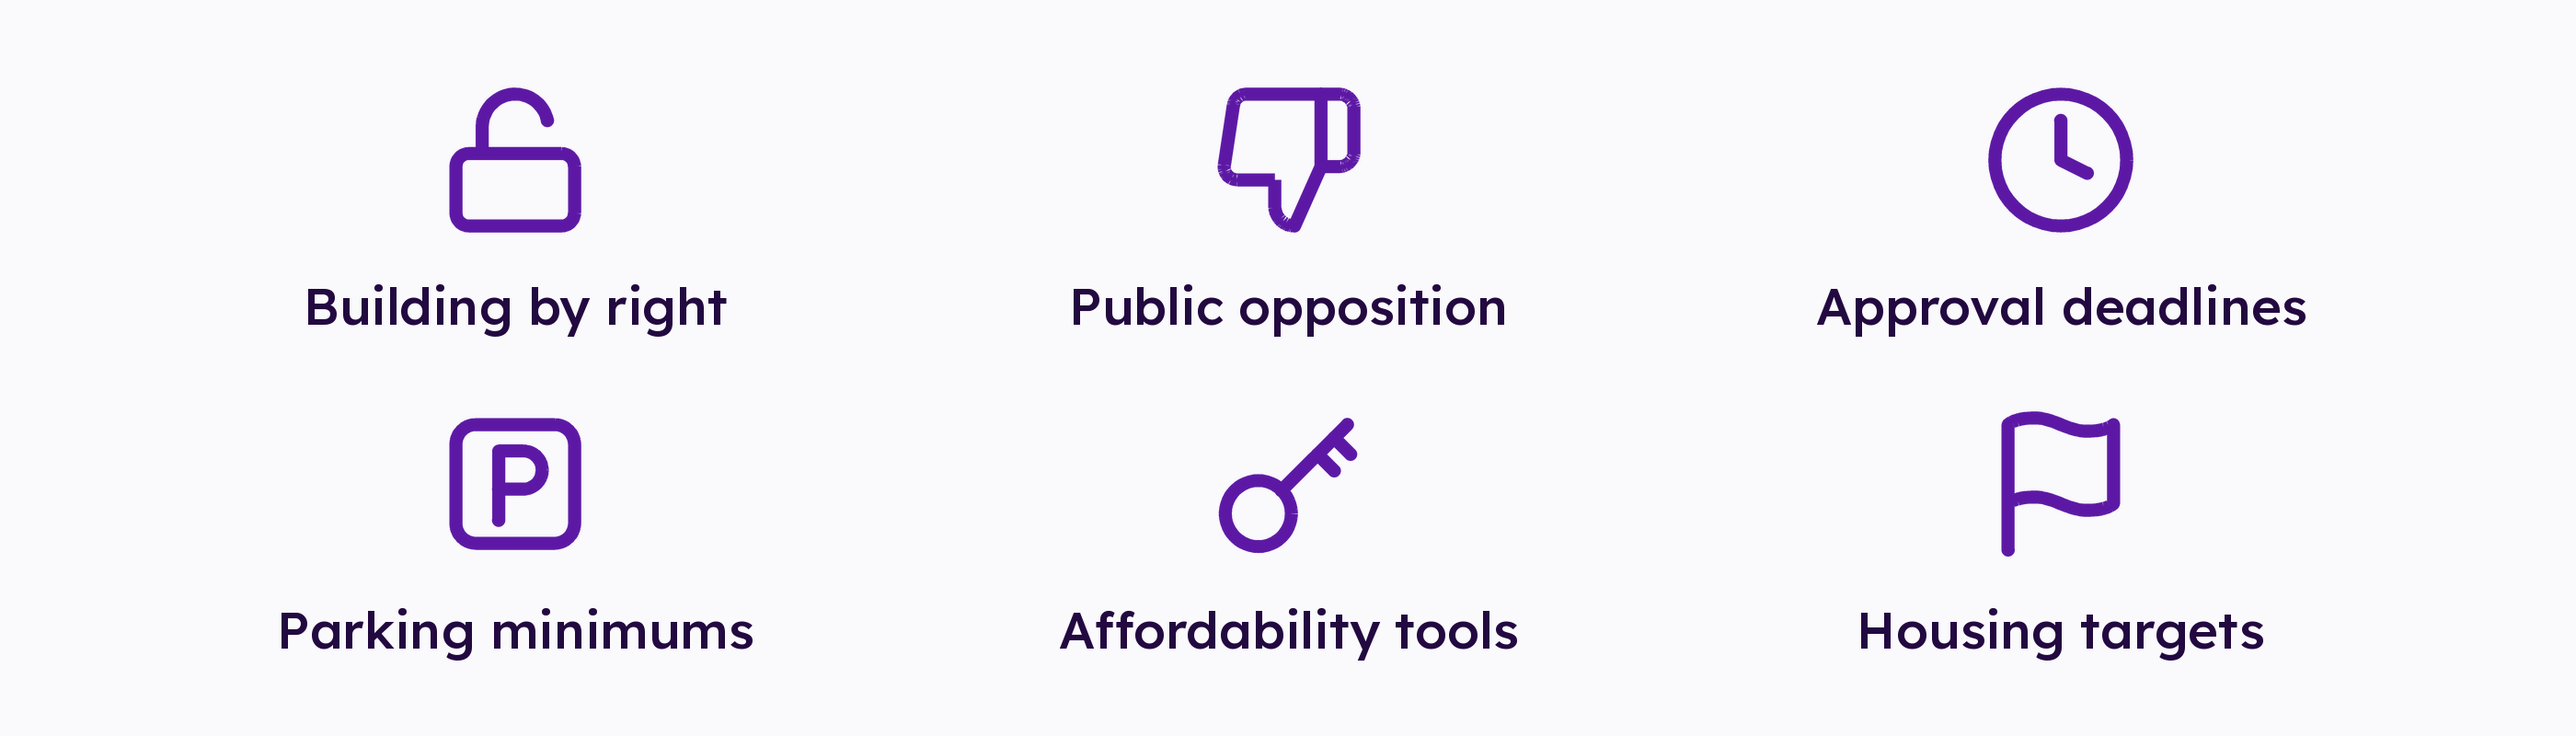
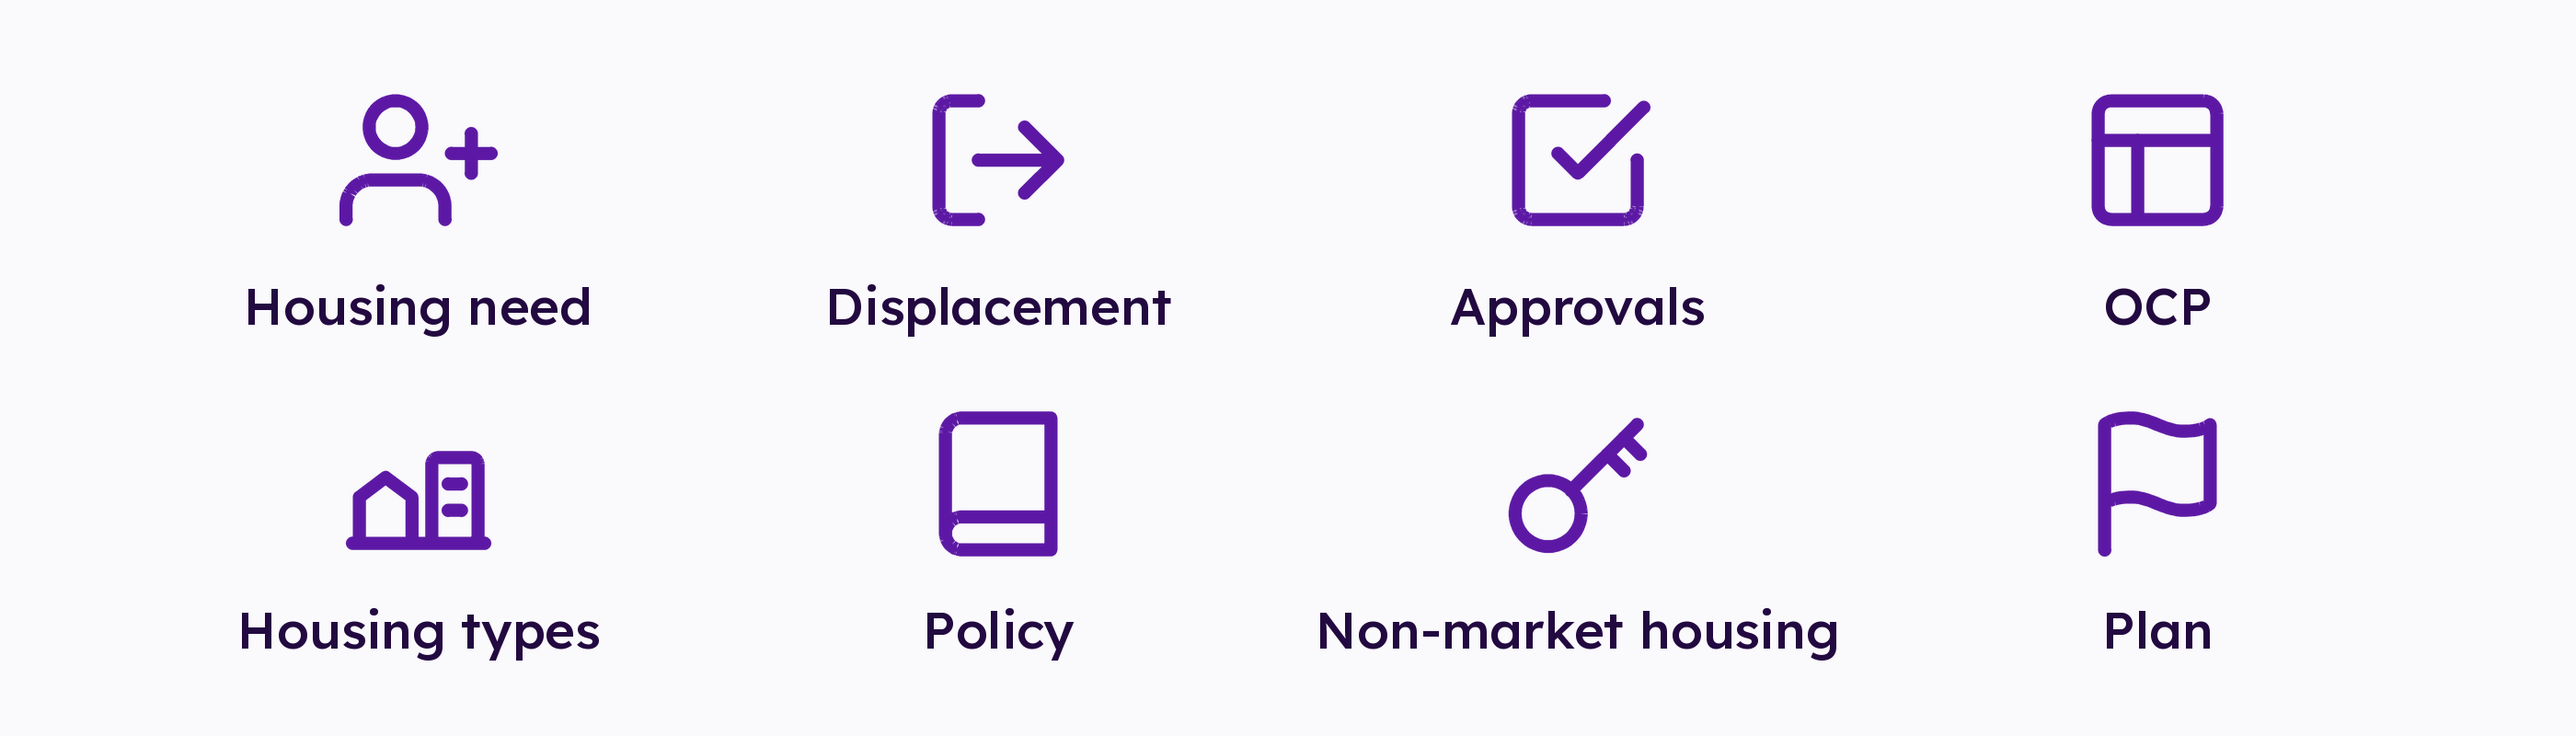
Update housing image to match HFL categories

diff --git a/scripts/gen-tally-categories.py b/scripts/gen-tally-categories.py
@@ -152,40 +152,48 @@ TRANSIT = [
      '<line x1="16" y1="12" x2="23" y2="12"/></svg>'),
 ]
 
-# The Housing block: HSG-01 to HSG-11, the biggest in the questionnaire, so
-# these are subjects rather than questions. Two rows of three in form order.
+# The Housing block: HSG-01 to HSG-11, the biggest in the questionnaire. These
+# labels are given rather than derived - they came in as a per-question tagging
+# of the block, which is why they read as tags ("OCP", "Plan") where the other
+# sets read as phrases. Two rows of four.
 #
-# HSG-01, HSG-02 and HSG-03 are one tile: three angles on what can be built
-# without a rezoning. HSG-07 and HSG-08 are one tile: the tools list and the
-# displacement list are both "what would you actually do about affordability".
-#
-# Two questions get no tile. HSG-10 asks the candidate's own housing situation,
-# which is demographic, ungraded and carries a "prefer not to say" - announcing
-# it on a section break oversells a question we deliberately made easy to skip.
-# HSG-09 is `change="Unchanged"`, so its text is in the master sheet rather than
-# finalize.py and there was nothing here to label it from. Worth a look before
-# this ships: if HSG-09 is a subject none of these six covers, it needs a tile.
+# The source list had ten entries for eight labels: "Approvals" and "OCP" each
+# appeared twice, once per question carrying that tag. Duplicates are dropped
+# here - two identical tiles in one grid read as a rendering fault, not as two
+# questions - and the order is first appearance in that list.
 HOUSING = [
-    ("Building by right",
-     '<svg viewBox="0 0 24 24"><rect x="3" y="11" width="18" height="11" rx="2"/>'
-     '<path d="M7 11V7a5 5 0 0 1 9.9-1"/></svg>'),
-    ("Public opposition",
-     '<svg viewBox="0 0 24 24"><path d="M10 15v4a3 3 0 0 0 3 3l4-9V2H5.72'
-     'a2 2 0 0 0-2 1.7l-1.38 9a2 2 0 0 0 2 2.3z"/>'
-     '<path d="M17 2h2.67A2.31 2.31 0 0 1 22 4v7a2.31 2.31 0 0 1-2.33 2H17"/></svg>'),
-    ("Approval deadlines",
-     '<svg viewBox="0 0 24 24"><circle cx="12" cy="12" r="10"/>'
-     '<path d="M12 6v6l4 2"/></svg>'),
-    # A P in a sign, rather than a slashed car. The car lost this argument once
-    # already, in the Walking set.
-    ("Parking minimums",
-     '<svg viewBox="0 0 24 24"><rect x="3" y="3" width="18" height="18" rx="3"/>'
-     '<path d="M9.5 17.5V7h3.7a2.9 2.9 0 0 1 0 5.8H9.5"/></svg>'),
-    ("Affordability tools",
+    # The one glyph here from a family already in use: reconciliation.svg is two
+    # figures and the Conduct set has a figure with an x. All three mean people,
+    # and no two share a section break, so the resemblance is the point rather
+    # than a collision.
+    ("Housing need",
+     '<svg viewBox="0 0 24 24"><path d="M16 21v-2a4 4 0 0 0-4-4H5a4 4 0 0 0-4 4v2"/>'
+     '<circle cx="8.5" cy="7" r="4"/><line x1="20" y1="8" x2="20" y2="14"/>'
+     '<line x1="23" y1="11" x2="17" y2="11"/></svg>'),
+    ("Displacement",
+     '<svg viewBox="0 0 24 24"><path d="M9 21H5a2 2 0 0 1-2-2V5a2 2 0 0 1 2-2h4"/>'
+     '<path d="M16 17l5-5-5-5"/><line x1="21" y1="12" x2="9" y2="12"/></svg>'),
+    ("Approvals",
+     '<svg viewBox="0 0 24 24"><path d="M9 11l3 3L22 4"/>'
+     '<path d="M21 12v7a2 2 0 0 1-2 2H5a2 2 0 0 1-2-2V5a2 2 0 0 1 2-2h11"/></svg>'),
+    ("OCP",
+     '<svg viewBox="0 0 24 24"><rect x="3" y="3" width="18" height="18" rx="2"/>'
+     '<line x1="3" y1="9" x2="21" y2="9"/>'
+     '<line x1="9" y1="21" x2="9" y2="9"/></svg>'),
+    ("Housing types",
+     '<svg viewBox="0 0 24 24"><path d="M2 21h20"/>'
+     '<path d="M3 21v-7l4-3 4 3v7"/>'
+     '<rect x="14" y="8" width="7" height="13" rx="1"/>'
+     '<path d="M16.5 12h2M16.5 16h2"/></svg>'),
+    ("Policy",
+     '<svg viewBox="0 0 24 24"><path d="M4 19.5A2.5 2.5 0 0 1 6.5 17H20"/>'
+     '<path d="M6.5 2H20v20H6.5A2.5 2.5 0 0 1 4 19.5v-15A2.5 2.5 0 0 1 6.5 2z"/>'
+     '</svg>'),
+    ("Non-market housing",
      '<svg viewBox="0 0 24 24"><circle cx="7.5" cy="16.5" r="5"/>'
      '<path d="M11 13L21 3"/><path d="M16.5 7.5l2.5 2.5"/>'
      '<path d="M19 5l2.5 2.5"/></svg>'),
-    ("Housing targets",
+    ("Plan",
      '<svg viewBox="0 0 24 24"><path d="M4 15s1-1 4-1 5 2 8 2 4-1 4-1V3s-1 1-4 1'
      '-5-2-8-2-4 1-4 1z"/><line x1="4" y1="22" x2="4" y2="15"/></svg>'),
 ]
@@ -384,7 +392,7 @@ CONDUCT = [
 ]
 
 SETS = {"categories": 5, "complete": 5, "general": 3, "walking": 4,
-        "rolling": 4, "transit": 4, "housing": 3, "climate": 3,
+        "rolling": 4, "transit": 4, "housing": 4, "climate": 3,
         "arts": 3, "health-rec": 2, "governance": 3,
         "housekeeping": 3, "info": 4, "conduct": 5}             # name -> columns
 
